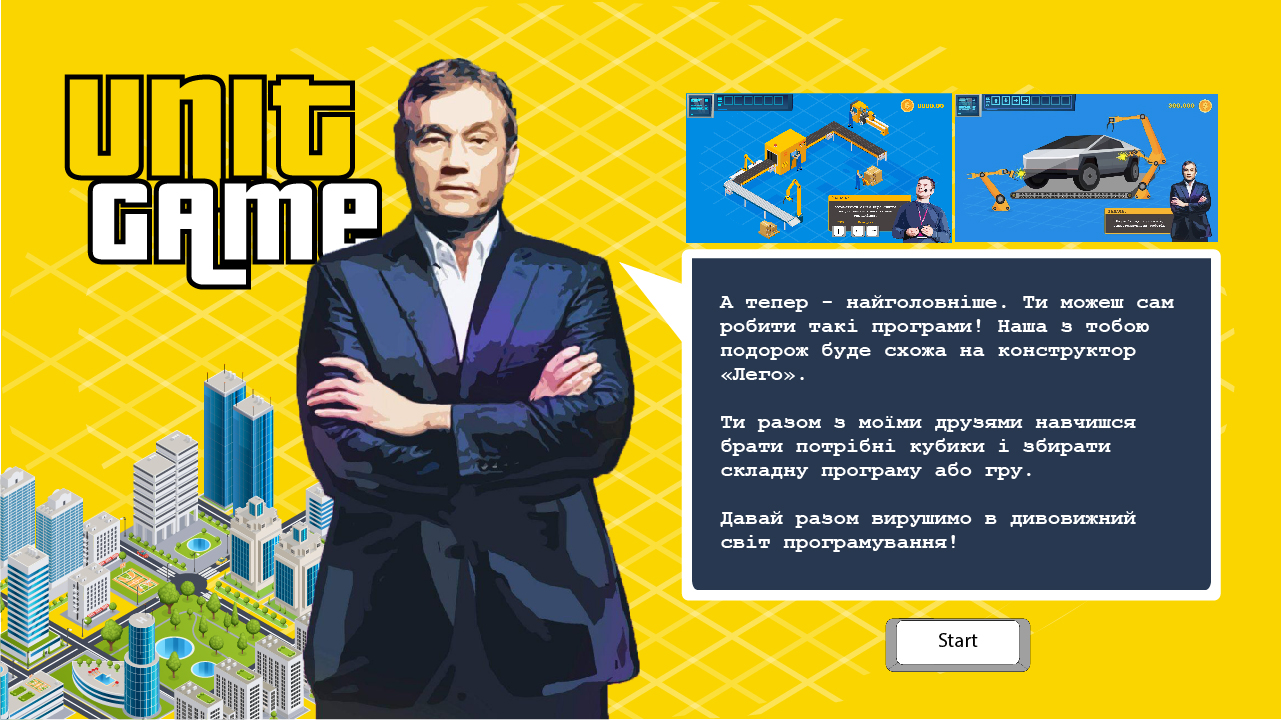
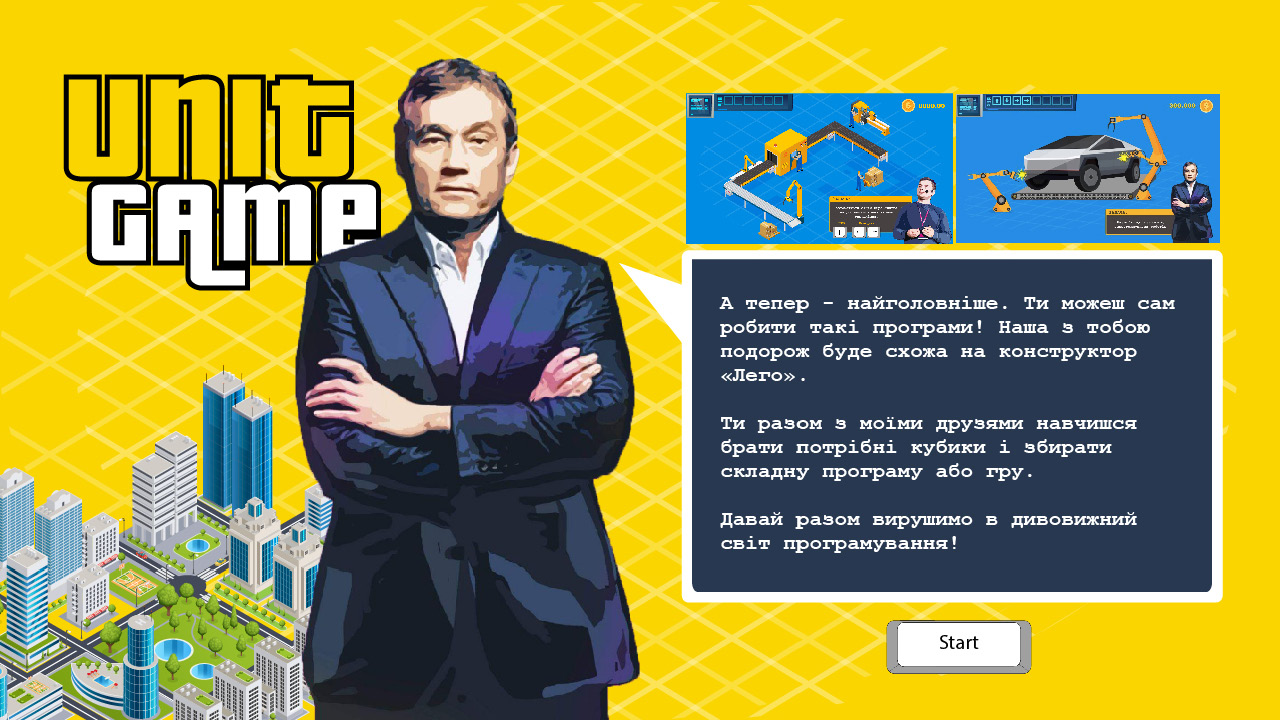
added map

diff --git a/src/intro.c b/src/intro.c
@@ -5,9 +5,10 @@ int flag = 0;
 SDL_Texture* intro_image;
 SDL_Texture* speech_image_1;
 SDL_Texture* speech_image_2;
+SDL_Texture* map_intro;
 
 void setup_intro() {
-    SDL_Surface* image = IMG_Load("resource/img/intro.jpeg");
+    SDL_Surface* image = IMG_Load("resource/img/intro.jpg");
     intro_image = SDL_CreateTextureFromSurface(renderer, image);
     SDL_FreeSurface(image);
 
@@ -18,6 +19,10 @@ void setup_intro() {
     SDL_Surface* speech_2 = IMG_Load("resource/img/speech_2.jpg");
     speech_image_2 = SDL_CreateTextureFromSurface(renderer, speech_2);
     SDL_FreeSurface(speech_2);
+
+    SDL_Surface* map = IMG_Load("resource/img/map_intro.jpg");
+    map_intro = SDL_CreateTextureFromSurface(renderer, map);
+    SDL_FreeSurface(map);
 }
 
 void process_intro() {
@@ -35,7 +40,7 @@ void process_intro() {
                 if (event.button.x > 0 && event.button.x < 4000
                     && event.button.y > 0 && event.button.y < 1700) {
                     flag++;
-                    if (flag == 3) game_is_running = FALSE;
+                    if (flag == 4) game_is_running = FALSE;
                 }
             }
             break;
@@ -46,7 +51,6 @@ void render_intro() {
     SDL_RenderClear(renderer);
     SDL_RenderCopy(renderer, intro_image, NULL, NULL);
     SDL_RenderPresent(renderer);
-    //sleep(5);
     SDL_RenderClear(renderer);
 }
 
@@ -66,9 +70,18 @@ void render_speech_2() {
     }
 }
 
+void render_map() {
+    if (flag == 3) {
+        SDL_RenderClear(renderer);
+        SDL_RenderCopy(renderer, map_intro, NULL, NULL);
+        SDL_RenderPresent(renderer);
+    }
+}
+
 void cleanup_intro() {
     SDL_DestroyTexture(intro_image);
     SDL_DestroyTexture(speech_image_1);
     SDL_DestroyTexture(speech_image_2);
+    SDL_DestroyTexture(map_intro);
 }
 

diff --git a/src/main.c b/src/main.c
@@ -12,6 +12,7 @@ int count = 0;
 int start = 0;
 int restart = 0;
 int stop_score = 0;
+int destroy = 0;
 
 int initialize_window(void) {
     if (SDL_Init(SDL_INIT_EVERYTHING) != 0) {
@@ -106,8 +107,11 @@ void process_input() {
                 case SDLK_r:
                     restart = 1;
                     break;
-                case SDLK_ESCAPE:
+                case SDLK_q:
                     game_is_running = FALSE;
+                    break;
+                case SDLK_ESCAPE:
+                    destroy = 1;
                     break;
             }
             break;
@@ -177,6 +181,7 @@ void run_intro() {
         process_intro();
         render_speech_1();
         render_speech_2();
+        render_map();
     }
     cleanup_intro();
 }
@@ -250,6 +255,7 @@ void run_level(int level) {
 
     while (game_is_running) {
         process_input();
+        if (destroy) destroy_window();
         if (level == 1) {
             update_1();
             render_1();

diff --git a/src/level_1.c b/src/level_1.c
@@ -36,10 +36,6 @@ void setup_1() {
     texture_token00 = SDL_CreateTextureFromSurface(renderer, token00);
     SDL_FreeSurface(token00);
 
-    // SDL_Surface* token01 = IMG_Load("resource/img/1000.png");
-    // texture_token01 = SDL_CreateTextureFromSurface(renderer, token01);
-    // SDL_FreeSurface(token01);
-
     SDL_Surface* worker_1 = IMG_Load("resource/img/worker.jpeg");
     texture_worker_1 = SDL_CreateTextureFromSurface(renderer, worker_1);
     SDL_FreeSurface(worker_1);
@@ -171,7 +167,7 @@ void render_1() {
     SDL_Rect machine_rect = {520, 200, 190, 212};
     SDL_RenderCopy(renderer, texture_machine_ready_1, NULL, &machine_rect);
 
-    SDL_Rect icons[1] = {{182, 14, 42, 42}};
+    SDL_Rect icons[1] = {{180, 13, 42, 42}};
     render_copy_icons(1, icons);
 
     SDL_Rect score_rect = {1050, 35, 120, 50};

diff --git a/src/level_4.c b/src/level_4.c
@@ -224,7 +224,7 @@ void render_4() {
         SDL_RenderCopy(renderer, texture_success03, NULL, &next_rect);
 
     SDL_Rect icons[11] = {{182, 11, 42, 42}, {230, 11, 42, 42}, {278, 11, 42, 42},
-                          {326, 11, 42, 42}, {374, 11, 42, 42}, {422, 11, 42, 42},
+                          {326, 11, 42, 42}, {374, 11, 42, 42}, {423, 11, 42, 42},
                           {470, 11, 42, 42}, {518, 11, 42, 42}, {566, 11, 42, 42},
                           {612, 11, 42, 42}, {660, 11, 42, 42}};
     render_copy_icons(11, icons);

diff --git a/src/level_2.c b/src/level_2.c
@@ -157,7 +157,7 @@ void render_2() {
         SDL_RenderCopy(renderer, texture_success04, NULL, &next_rect);
 
 
-    SDL_Rect icons[3] = {{182, 14, 42, 42}, {230, 14, 42, 42}, {278, 14, 42, 42}};
+    SDL_Rect icons[3] = {{183, 13, 42, 42}, {231, 13, 42, 42}, {280, 13, 42, 42}};
     render_copy_icons(3, icons);
 
     SDL_Rect score_rect = {1050, 35, 120, 50};

diff --git a/inc/header.h b/inc/header.h
@@ -59,6 +59,7 @@ void setup_intro();
 void render_intro();
 void render_speech_1();
 void render_speech_2();
+void render_map();
 void process_intro();
 void cleanup_intro();
 
